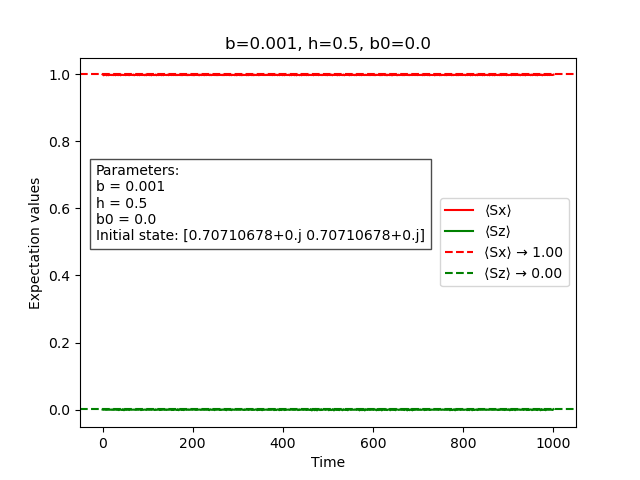
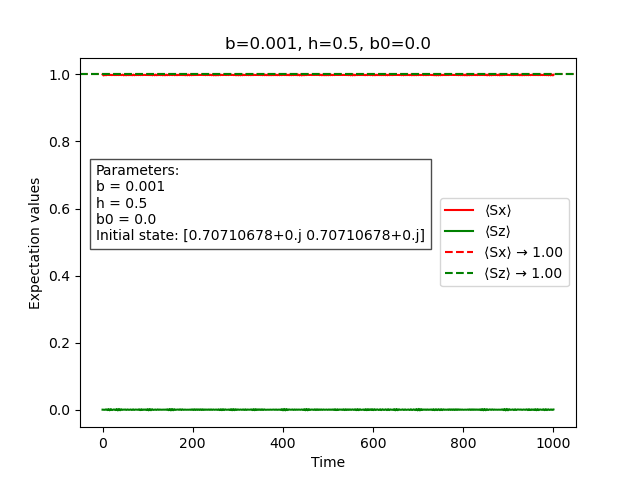
more

diff --git a/tip.py b/tip.py
@@ -85,8 +85,8 @@ def simulate(parameters):
     nz0 = b / np.sqrt(b * b + h * h)
 
     sn0 = sx * nx0 + sz * nz0
-    sx_inf = nx0 * expect(sn0, psi0)
-    sz_inf = nz0 * expect(sn0, psi0)
+    sx_inf = expect(sn0, psi0)
+    sz_inf = expect(sn0, psi0)
 
     # Plot the results
     plt.figure()
